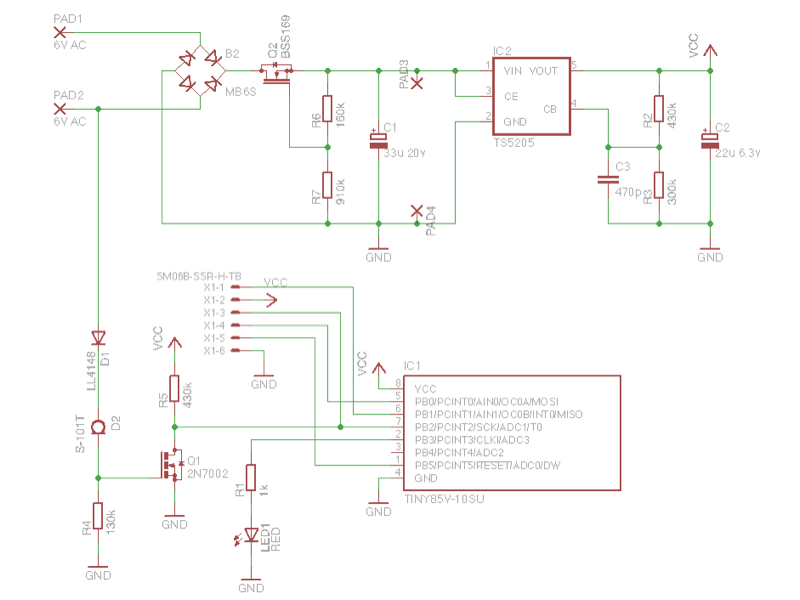
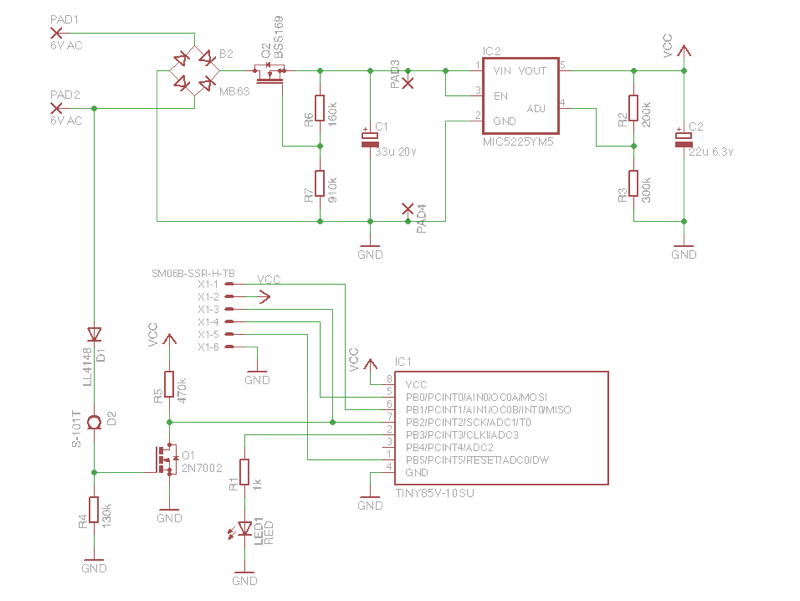
updated docs

diff --git a/docs/Hardware.md b/docs/Hardware.md
@@ -31,13 +31,13 @@ There are two additional pads on the input side of the voltage regulator. These 
 |D1      | LL4148            | SOD80C         |
 |D2      | S-101T            | S series       |
 |IC1     | TINY85V-10SU      | SOIC-8         |
-|IC2     | TS5205CX5         | SOT25          |
+|IC2     | MIC5225YM5        | SOT25          |
 |LED1    | RED               | 0805           |
 |Q1      | 2N7002            | SOT23          |
 |Q2      | BSS169            | SOT23          |
 |R1      | 1k                | 0805           |
-|R2      | 470k              | 0805           |
-|R3      | 330k              | 0805           |
+|R2      | 200k              | 0805           |
+|R3      | 300k              | 0805           |
 |R4      | 130k              | 0805           |
 |R5      | 470k              | 0805           |
 |R6      | 160k              | 0805           |
